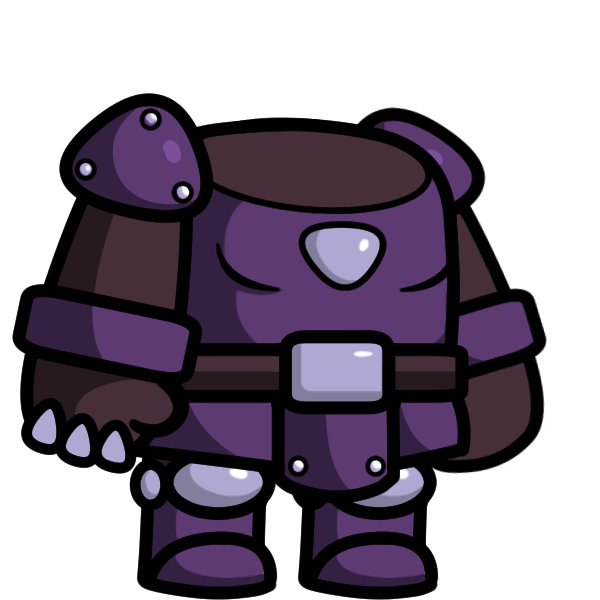
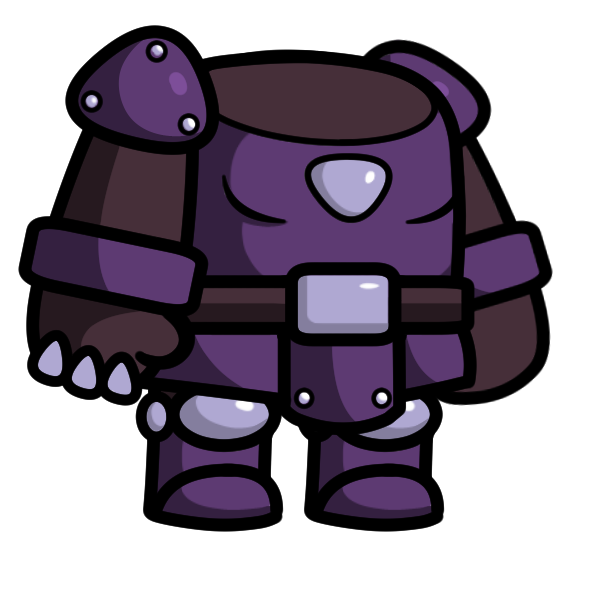
Bodies added.

diff --git a/Core/ChooseCharactersState.cpp b/Core/ChooseCharactersState.cpp
@@ -65,7 +65,7 @@ void ChooseCharactersState::onEnter()
                 break;
         }
         string bodyTilePath;
-        switch (_randomPlayers[i]->getClass())
+        switch (_randomPlayers[i]->getRace())
         {
             case barbarian:
                 bodyTilePath = BODY_BARBARIAN_PATH;
@@ -74,10 +74,10 @@ void ChooseCharactersState::onEnter()
                 bodyTilePath = BODY_HUMAN_PATH;
                 break;
             case elf:
-                bodyTilePath = BODY_DWARF_PATH;
+                bodyTilePath = BODY_ELF_PATH;
                 break;
             case dwarf:
-                bodyTilePath = BODY_ELF_PATH;
+                bodyTilePath = BODY_DWARF_PATH;
                 break;
             default:
                 bodyTilePath = BODY_HUMAN_PATH;

diff --git a/GUI/CharacterCard.cpp b/GUI/CharacterCard.cpp
@@ -14,7 +14,7 @@ CharacterCard::CharacterCard(const char * path, int x, int y, int w, int h, cons
                                                            _name(TTF_OpenFont(FONT_PATH, 22), 0, 0,
                                                                  0, name, x + 20, y + 20),
                                                            _headTile(headTilePath, x+45, y+115, w-100, h-250),
-                                                           _bodyTile(bodyTilePath, x+45, y+145, w-80, h-200)
+                                                           _bodyTile(bodyTilePath, x+38, y+162, w-80, h-200)
 {
 }
 

diff --git a/Core/PlayState.cpp b/Core/PlayState.cpp
@@ -101,7 +101,7 @@ void PlayState::onEnter()
                 break;
         }
         string bodyTilePath;
-        switch (_players[i]->getClass())
+        switch (_players[i]->getRace())
         {
             case barbarian:
                 bodyTilePath = BODY_BARBARIAN_PATH;
